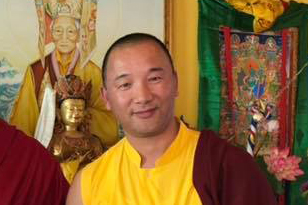
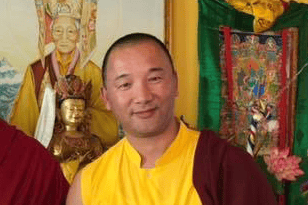
Updated images of Lama

diff --git a/src/routes/calendar/+page.svelte b/src/routes/calendar/+page.svelte
@@ -1,4 +1,5 @@
-<script>
+<script lang="ts">
+	import Portal from '$lib/components/Portal.svelte';
 	import Section from '$lib/components/Section.svelte';
 </script>
 
@@ -6,8 +7,19 @@
 	<title>Events Calendar | Karma Gyurmed Ling</title>
 </svelte:head>
 
+<Portal />
 <Section id="calendar">
 	<h1 class="text-center my-4 text-3xl">Events Calendar</h1>
+	<div class="my-4 w-full">
+		<figure>
+			<img
+				src="/mandala_unsplash.jpg"
+				alt="KGL Truth or Consequences"
+				class="w-full object-cover"
+			/>
+			<!-- <figcaption class="text-center italic">Lama Nima Sherpa</figcaption> -->
+		</figure>
+	</div>
 	<div class="flex justify-center items-center mx-auto p-4">
 		<iframe
 			title="Calendar"
@@ -20,6 +32,13 @@
 		/>
 	</div>
 	<div class="text-center my-4 max-w-lg p-4 mx-auto">
-		<p>In case the calendar is not displayed <a href="https://calendar.google.com/calendar/embed?src=c_93adc9a8597047d74fb6f40aa8e8e5d89426d7cf938de8c1761595412a02702e%40group.calendar.google.com&ctz=America%2FDenver" target="_blank" class="underline text-blue-500 hover:text-blue-800">click here</a> to open it in another window</p>
+		<p>
+			In case the calendar is not displayed <a
+				href="https://calendar.google.com/calendar/embed?src=c_93adc9a8597047d74fb6f40aa8e8e5d89426d7cf938de8c1761595412a02702e%40group.calendar.google.com&ctz=America%2FDenver"
+				target="_blank"
+				class="underline text-blue-500 hover:text-blue-800">click here</a
+			> to open it in another window
+		</p>
 		<!-- ><p>In case the calendar is not displayed <a href="https://calendar.google.com/calendar/u/4?cid=Y185M2FkYzlhODU5NzA0N2Q3NGZiNmY0MGFhOGU4ZTVkODk0MjZkN2NmOTM4ZGU4YzE3NjE1OTU0MTJhMDI3MDJlQGdyb3VwLmNhbGVuZGFyLmdvb2dsZS5jb20" target="_blank" class="underline">click here</a> to open it in another window</p> -->
+	</div>
 </Section>

diff --git a/src/lib/components/Footer.svelte b/src/lib/components/Footer.svelte
@@ -9,12 +9,17 @@
 		>Karma Gyurmed Ling</a
 	>
 
-	<p class="py-2 text-white sm:py-0 text-center mx-auto">
-		© {new Date().getFullYear()} - Karma Gyurmed Ling,
-		<a href="https://maps.app.goo.gl/3guW3eCPXgr9BpEG6" target="_blank" class="hover:text-warning"
-			>813 North Pershing Street, Truth or Consequences, NM 87901</a
+	<div class="py-2 text-white sm:py-0 text-center mx-auto flex flex-col gap-5">
+		<p>
+			© {new Date().getFullYear()} - Karma Gyurmed Ling,
+			<a href="https://maps.app.goo.gl/3guW3eCPXgr9BpEG6" target="_blank" class="hover:text-warning"
+				>813 North Pershing Street, Truth or Consequences, NM 87901</a
+			>
+		</p>
+		<a href="https://www.skryonline.com" target="_blank" class="text-sm opacity-50"
+			>Website designed by SKRY Online</a
 		>
-	</p>
+	</div>
 
 	<div>
 		<DonateButton />

diff --git a/src/routes/about/+page.svelte b/src/routes/about/+page.svelte
@@ -229,6 +229,12 @@
 
 	<h2 class="text-center text-2xl my-6">Venerable Lama Nima Sherpa, our resident lama</h2>
 
+	<div class="my-4 w-full">
+		<figure>
+			<img src="/lama_bhutan.jpg" alt="Lama Migma Sherpa" class="w-full object-cover" />
+			<!-- <figcaption class="text-center italic">Lama Nima Sherpa</figcaption> -->
+		</figure>
+	</div>
 	<p class="mb-4 text-lg">
 		Lama Nima Sherpa was born in Nepal In 1986. When he was 7 years old, he was admitted and
 		ordained as a Monk by his <span class="italic">Eminence Kalu Rinpoche</span> in January 1993 at

diff --git a/src/routes/membership_support/+page.svelte b/src/routes/membership_support/+page.svelte
@@ -13,10 +13,9 @@
 	<img
 		src="/Group_w_Kalu.jpg"
 		alt="Sangha with Kalu Rinpoche"
-		class="w-full  h-[70vh] object-cover"
+		class="w-full h-[70vh] object-cover"
 	/>
 </div>
-
 
 <Section id="members">
 	<h1 class="text-center my-4 text-3xl">Becoming a member of Karma Gyurmed Ling</h1>
